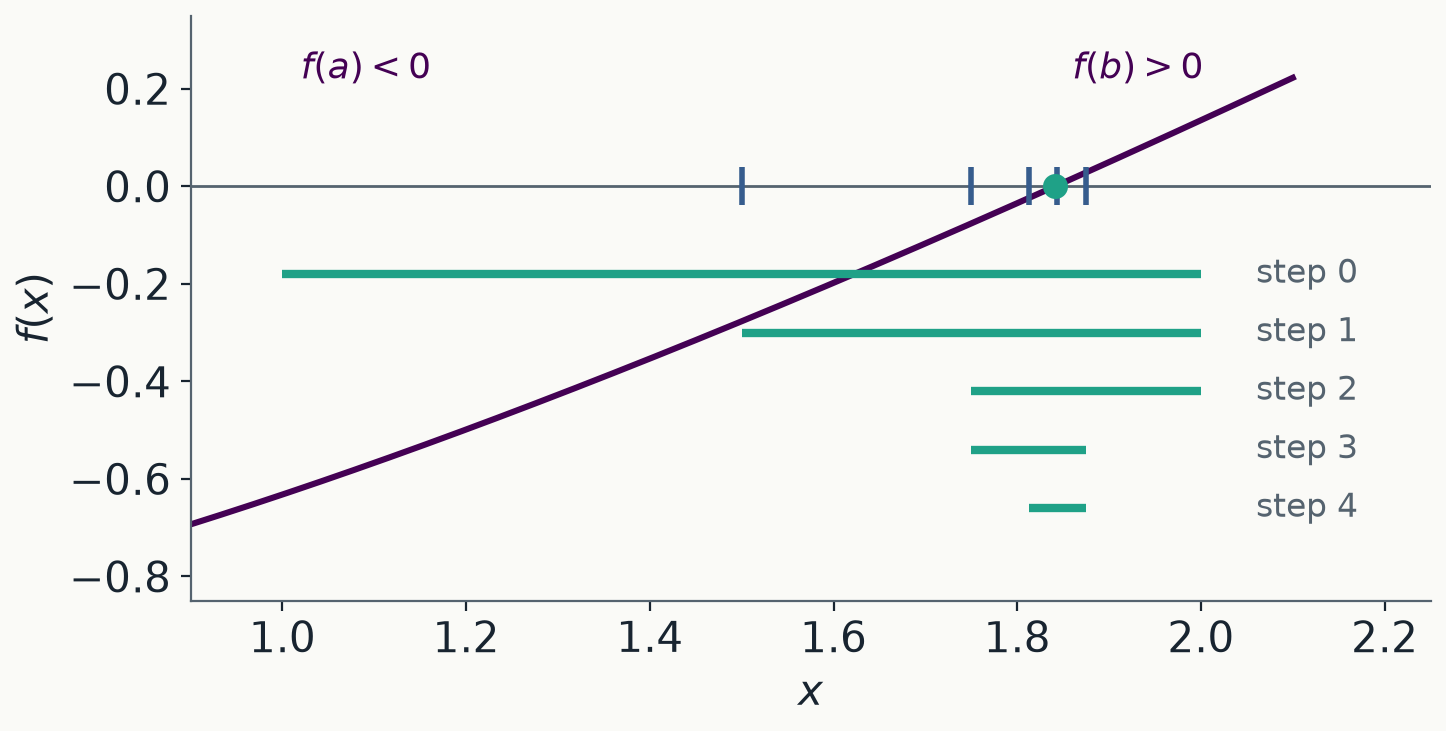
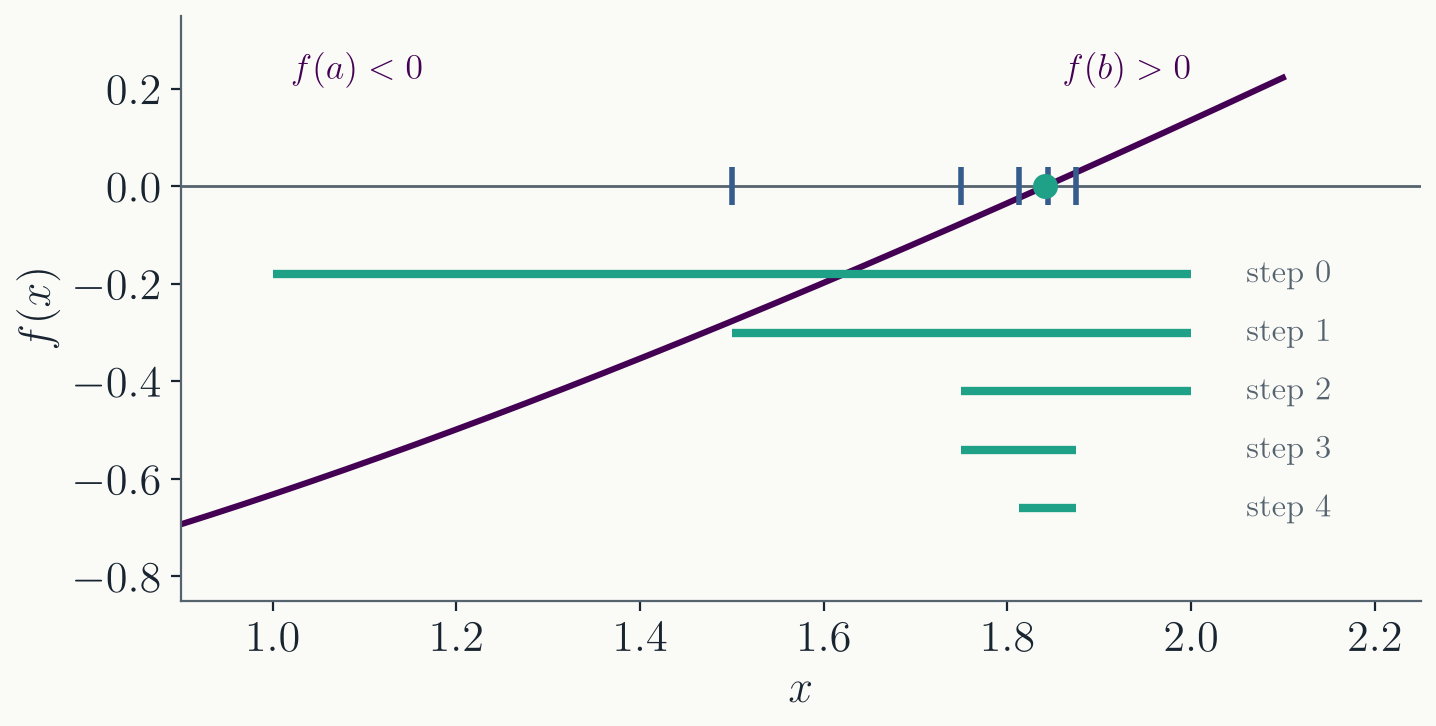
Lecture 3: review pass
Physics examples reworked (turning points, dispersion, BCS gap), a
precise bisection procedure slide, quadratic formulas centered with a
separator, digit-doubling made explicit for Newton, templates and
lambdas split onto separate slides, std::get instead of structured
bindings, figures regenerated with LaTeX fonts.

diff --git a/Lecture 3/index.html b/Lecture 3/index.html
@@ -34,7 +34,7 @@
             <li class="fragment"><strong>Iterative methods.</strong> Improving a
               guess step by step, and how fast the error shrinks.</li>
             <li class="fragment"><strong>Implementation.</strong> Tolerances,
-              failure, and passing a function to a function in C++.</li>
+              failure, and function as an argument in C++.</li>
           </ul>
           <!-- <p class="fragment why">Every method today is a loop that improves a
                guess. The whole subject is how much better each step gets, and
@@ -54,30 +54,39 @@
         </section>
 
         <section>
-          <h2>Where roots come from</h2>
-          <ul style="font-size: 0.9em;">
-            <li><strong>Orbits.</strong> Where is a planet at time $t$? The
-              position follows from the eccentric anomaly $E$, which solves
-              Kepler's equation $E - e\sin E = M(t)$. No closed form; solved
-              billions of times a day by orbit propagators.</li>
-            <li class="fragment"><strong>Quantum wells.</strong> The bound-state
-              energies of a finite square well solve
-              $\tan z = \sqrt{(z_0/z)^2 - 1}$.</li>
-            <li class="fragment"><strong>Lagrange points.</strong> Where gravity
-              and the centrifugal force balance is a fifth-degree polynomial
-              in the distance. That is Homework 2.</li>
+          <h2>Why $f(x) = 0$?</h2>
+          <ul style="font-size: 0.85em;">
+            <li><strong>Orbit periods.</strong> The turning points of an orbit
+              solve $E = V_{\rm eff}(r)$. Any perturbation to $1/r$ makes
+              this transcendental, and the period integral
+              $\oint dr/\sqrt{E - V_{\rm eff}(r)}$ cannot even be written
+              down until the roots are in hand.</li>
+            <li class="fragment"><strong>Wave dispersion.</strong> A wave with
+              wavenumber $k$ can only oscillate at frequencies with
+              $D(\omega, k) = 0$. Deriving the dispersion relation is
+              physics; solving it is nontrivial numerics.</li>
+            <li class="fragment"><strong>Phase transitions.</strong> The BCS
+              gap $\Delta(T)$ is defined implicitly by
+              $1 = \lambda \int \tanh\!\big(\sqrt{\xi^2 + \Delta^2}/2T\big)
+              /\sqrt{\xi^2 + \Delta^2}\,d\xi$: an equation to solve, not a
+              formula to evaluate.</li>
           </ul>
-          
+          <p class="fragment why">Often $f(x) = 0$ is not the problem itself
+            but a step inside it, solved thousands of times.</p>
         </section>
 
         <section>
           <h2>When a formula exists</h2>
-          <p style="font-size: 0.9em; margin-bottom: 0;">$ax^2 + bx + c = 0$:
-            $\;x_{1,2} = \dfrac{-b \pm \sqrt{b^2 - 4ac}}{2a}$</p>
+          <div style="display: flex; align-items: center; justify-content: center;
+            gap: 1.2em; font-size: 0.9em; margin: 20px 0 8px;">
+            <span>$ax^2 + bx + c = 0:$</span>
+            <span style="flex: 0 0 7%; height: 3px;"></span>
+            <span>$x_{1,2} = \dfrac{-b \pm \sqrt{b^2 - 4ac}}{2a}$</span>
+          </div>
           <ul style="font-size: 0.8em;">
             <li class="fragment">When $b^2 \gg 4ac$, one root computes as
               $-b + \sqrt{b^2 - 4ac}$: two nearly equal numbers subtracted,
-              i.e. catastrophic cancellation (lecture 1).</li>
+              i.e. catastrophic cancellation (Lecture 1).</li>
             <li class="fragment">$a = 1$, $b = 10^8$, $c = 1$: the small root
               is $-1.0\times10^{-8}$. The formula gives
               $-7.45\times10^{-9}$, 25% off.</li>
@@ -105,7 +114,7 @@
 
         <section class="divider">
           <h2>Part II &middot; Iterative methods</h2>
-          <p>Fixed point &middot; bisection &middot; Newton &middot; secant</p>
+          <p>Fixed point &middot; Bisection &middot; Newton &middot; Secant</p>
         </section>
 
         <section>
@@ -121,7 +130,7 @@
               $g(x) = 2 - e^{-x}$.</li>
           </ul>
           <p class="fragment why">$x_*$ is called a <em>fixed point</em> of
-            $g$: plugging it in gives it back.</p>
+            $g$: plugging it in gives back $x_*$.</p>
         </section>
 
         <section>
@@ -145,11 +154,13 @@
             </div>
             <div class="col">
               <ul style="font-size: 0.85em;">
+                <li class="fragment">Always need to start from a guess $x_0$. We
+                choose $x_0 = 1$ arbitrarily.</li>
                 <li class="fragment">Each step shrinks the error by about the
                   same factor, here $0.16$.</li>
                 <li class="fragment">About one more correct digit every 1.3
                   steps.</li>
-                <li class="fragment">Why $0.16$? Next slide.</li>
+                <li class="fragment">Why $0.16$?</li>
               </ul>
             </div>
           </div>
@@ -171,7 +182,7 @@
               table.</li>
           </ul>
           <p class="fragment why">Convergence is slow when $|g'(x_*)|$ is
-            close to 1, and absent when it exceeds 1.</p>
+            close to 1. The iteration will diverge when it exceeds 1.</p>
         </section>
 
         <section>
@@ -203,23 +214,39 @@
 
         <section>
           <h2>Bisection method</h2>
+          <p style="font-size: 0.9em;">Start from $[a_0, b_0]$ with
+            $f(a_0)\,f(b_0) < 0$. For $n = 0, 1, 2, \dots$:</p>
+          $$x_{n+1} = \tfrac12\,(a_n + b_n)$$
+          $$[a_{n+1},\, b_{n+1}] =
+            \begin{cases}
+              [a_n,\, x_{n+1}] & \text{if } f(a_n)\,f(x_{n+1}) < 0,\\[3pt]
+              [x_{n+1},\, b_n] & \text{otherwise,}
+            \end{cases}$$
+          <p class="fragment" style="font-size: 0.9em;">until $b_n - a_n$ (or
+            $|f(x_{n+1})|$) is small enough.</p>
+          <p class="fragment why">Each update preserves the sign change
+            $f(a_n)\,f(b_n) < 0$, so the interval contains a root at every
+            step.</p>
+        </section>
+
+        <section>
+          <h2>Bisection method</h2>
           <ul style="font-size: 0.9em;">
             <li>After $n$ steps the interval has width $(b - a)/2^n$. To
               reach width $\varepsilon$:
               $$n = \log_2\frac{b - a}{\varepsilon}$$</li>
             <li class="fragment">$[1, 2]$ down to $10^{-15}$: 50 steps.
-              Fixed-point iteration at rate $0.16$ needed 19. Newton will
-              need 5.</li>
+              Fixed-point iteration at rate $0.16$ needed 19.</li>
             <li class="fragment">The count does not depend on $f$. With a valid
               bracket, bisection cannot fail.</li>
           </ul>
-          <p class="fragment why">The midpoint error is not monotone (it can
-            jump when the root is near an endpoint), but the bracket always
-            shrinks.</p>
+          <!-- <p class="fragment why">The midpoint error is not monotone (it can
+               jump when the root is near an endpoint), but the bracket always
+               shrinks.</p> -->
         </section>
 
         <section>
-          <h2>Bisection method</h2>
+          <h2>Drawbacks of Bisection method</h2>
           <ul style="font-size: 0.9em;">
             <li><strong>No sign change.</strong> $f(x) = x^2$ touches zero
               without crossing. There is no bracket, so bisection never
@@ -251,23 +278,24 @@
           <p style="font-size: 0.9em;">Expand $f$ around $x_*$ to second order
             and use $f(x_*) = 0$:</p>
           $$x_{n+1} - x_* = \frac{f''(x_*)}{2f'(x_*)}\,(x_n - x_*)^2 + \cdots$$
-          <ul style="font-size: 0.85em;">
-            <li class="fragment">The error is <em>squared</em> each step:
-              quadratic convergence. The number of correct digits
-              doubles.</li>
+          <ul style="font-size: 0.8em;">
+            <li class="fragment">The error is <em>squared</em> each step
+              (quadratic convergence): $k$ correct digits means
+              $e_n \sim 10^{-k}$, and $e_n^2 \sim 10^{-2k}$ means $2k$
+              correct digits.</li>
             <li class="fragment">In fixed-point language:
               $g'(x) = f f''/(f')^2$, so $g'(x_*) = 0$. The linear term
               is gone.</li>
-            <li class="fragment">Our example from $x_0 = 1$: errors
-              $1.6\times10^{-1}$, $2.1\times10^{-3}$, $4.1\times10^{-7}$,
-              $1.6\times10^{-14}$. Four steps.</li>
+            <!-- <li class="fragment">Our example from $x_0 = 1$:
+                 $1.6\times10^{-1}$, $2.1\times10^{-3}$, $4.1\times10^{-7}$,
+                 $1.6\times10^{-14}$: digits $1 \to 3 \to 7 \to 14$.</li> -->
           </ul>
           <p class="fragment why">The price: it needs $f'$, and a starting
             point close enough to the root.</p>
         </section>
 
         <section>
-          <h2>Newton's method</h2>
+          <h2>Drawbacks of Newton's method</h2>
           <img src="figures/newton_runaway.png" style="width: 50%; margin: 0 auto; display: block;"
             alt="Newton's method on arctan x from x0 = 1.5: each step lands farther from the root">
           <ul style="font-size: 0.8em;">
@@ -379,74 +407,86 @@
             <li class="fragment">Return both the answer and whether the
               iteration converged:</li>
           </ul>
-          <pre style="font-size: 0.45em;"><code class="language-c++" data-trim data-noescape>
+          <pre style="font-size: 0.45em;" class="fragment"><code class="language-c++" data-trim data-noescape>
 std::tuple&lt;bool, double&gt; result = bisection(f, 1.0, 2.0, 1e-12);
-auto [ok, x] = result;            // structured binding: unpack the tuple
+bool ok  = std::get&lt;0&gt;(result);   // std::get&lt;n&gt;: the n-th tuple element
+double x = std::get&lt;1&gt;(result);
 if (!ok) { std::cout &lt;&lt; "did not converge\n"; }
           </code></pre>
-          <p class="fragment why">This is the convention Homework 2 asks for:
-            <code>{converged, x}</code>, with <code>false</code> for a bad
-            bracket, too many iterations, or NaN.</p>
+          <!-- <p class="fragment why">This is the convention Homework 2 asks for:
+               <code>{converged, x}</code>, with <code>false</code> for a bad
+               bracket, too many iterations, or NaN.</p> -->
         </section>
 
         <section>
           <h2>Passing a function to a function</h2>
-          <p style="font-size: 0.8em;">Root-finding functions take $f$ as an
-            argument. This requires writing a function template: the one
-            exception to lecture 2's rule.</p>
-          <pre style="font-size: 0.45em;"><code class="language-c++" data-trim data-noescape>
+          <p style="font-size: 0.85em;">Root-finding functions take $f$ as an
+            argument. This requires writing a function template:</p>
+          <pre style="font-size: 0.5em;"><code class="language-c++" data-trim data-noescape>
 template &lt;typename F&gt;                 // F: anything callable as f(x)
 double evaluate(const F&amp; f, double x) {
   return f(x);
 }
+
 double square(double x) { return x * x; }
-evaluate(square, 3.0);                             // 9.0
-evaluate([](double x) { return x * x; }, 3.0);     // 9.0, with a lambda
-const double e = 0.3, M = 1.0;                     // problem parameters
-auto kepler = [e, M](double E) { return E - e * std::sin(E) - M; };
-evaluate(kepler, 1.0);                             // [e, M]: it may use them
+evaluate(square, 3.0);                // 9.0
           </code></pre>
-          <p class="fragment why" style="font-size: 0.7em;">A <em>lambda</em>
-            is a function without a name, written where it is used. The
-            brackets list the outside variables it may use.</p>
+          <p class="fragment why">The compiler generates a version of
+            <code>evaluate</code> for every type <code>F</code> it is called
+            with.</p>
         </section>
 
         <section>
-          <h2>Bisection in C++</h2>
-          <pre style="font-size: 0.42em;"><code class="language-c++" data-trim data-noescape>
-template &lt;typename F&gt;   // f(a) and f(b) must have opposite signs
-std::tuple&lt;bool, double&gt; bisection(const F&amp; f, double a, double b, double tol) {
-  const int max_iter = 200;             // 2^-200 is far below epsilon
-  double fa = f(a);
-  if (fa * f(b) > 0.0) return {false, a};   // no sign change: no bracket
-  for (int i = 0; i &lt; max_iter; ++i) {
-    const double mid = 0.5 * (a + b);
-    const double fm = f(mid);
-    if (std::abs(fm) &lt; tol) return {true, mid};
-    if (fa * fm &lt; 0.0) { b = mid; } else { a = mid; fa = fm; }
-  }
-  return {false, 0.5 * (a + b)};
-}
+          <h2>Lambda functions</h2>
+          <p style="font-size: 0.85em;">A function can also be written with no
+            name:</p>
+          <pre style="font-size: 0.5em;"><code class="language-c++" data-trim data-noescape>
+const double e = 0.3, M = 1.0;
+auto kepler = [e, M](double E) { return E - e * std::sin(E) - M; };
+evaluate(kepler, 1.0);
+
+evaluate([](double x) { return x * x; }, 3.0);   // 9.0
           </code></pre>
-          <p class="fragment why" style="font-size: 0.7em;">Needs
-            <code>&lt;cmath&gt;</code> and <code>&lt;tuple&gt;</code>. Run on
-            $x - 2 + e^{-x}$, $[1, 2]$: $1.84141$. On $x^2$, $[1, 2]$:
-            <code>false</code>.</p>
+          <ul style="font-size: 0.8em;">
+            <li class="fragment">The brackets are the <em>capture list</em>:
+              the outside variables the lambda may use.</li>
+            <li class="fragment">This is how a root finder gets an $f$ with
+              parameters in it: capture them.</li>
+          </ul>
         </section>
 
+        <!-- <section>
+             <h2>Bisection in C++</h2>
+             <pre style="font-size: 0.42em;"><code class="language-c++" data-trim data-noescape>
+             template &lt;typename F&gt;   // f(a) and f(b) must have opposite signs
+             std::tuple&lt;bool, double&gt; bisection(const F&amp; f, double a, double b, double tol) {
+             const int max_iter = 200;             // 2^-200 is far below epsilon
+             double fa = f(a);
+             if (fa * f(b) > 0.0) return {false, a};   // no sign change: no bracket
+             for (int i = 0; i &lt; max_iter; ++i) {
+             const double mid = 0.5 * (a + b);
+             const double fm = f(mid);
+             if (std::abs(fm) &lt; tol) return {true, mid};
+             if (fa * fm &lt; 0.0) { b = mid; } else { a = mid; fa = fm; }
+             }
+             return {false, 0.5 * (a + b)};
+             }
+             </code></pre>
+             <p class="fragment why" style="font-size: 0.7em;">Needs
+             <code>&lt;cmath&gt;</code> and <code>&lt;tuple&gt;</code>. Run on
+             $x - 2 + e^{-x}$, $[1, 2]$: $1.84141$. On $x^2$, $[1, 2]$:
+             <code>false</code>.</p>
+             </section>
+        -->
         <section>
           <h2>Where this goes next</h2>
           <ul>
-            <li><strong>Homework 2:</strong> implement all four methods as
-              templates with the <code>{converged, x}</code> convention,
-              then use them on a real problem.</li>
-            <li class="fragment"><strong>Next lecture:</strong> numerical
-              integration.</li>
+            <li class="fragment"><strong>Next Lecture:</strong> interpolation</li>
             <li class="fragment">References:
               <ul style="font-size: 0.9em;">
-                <li>Numerical Recipes, 3rd ed., chapter 9 (root finding).</li>
+                <li>Numerical Recipes, 3rd ed., Chapter 9 (root finding).</li>
                 <li>Burden &amp; Faires, <em>Numerical Analysis</em>,
-                  chapter 2.</li>
+                  Chapter 2.</li>
                 <li>3Blue1Brown, <em>Newton's fractal</em> (what Newton does
                   far from a root).</li>
               </ul>

diff --git a/Lecture 3/make_figures.py b/Lecture 3/make_figures.py
@@ -13,8 +13,11 @@ V = ["#440154", "#365C8D", "#1FA187", "#A0DA39"]   # viridis picks, dark to ligh
 plt.rcParams.update({
     "figure.facecolor": PAPER, "axes.facecolor": PAPER, "savefig.facecolor": PAPER,
     "axes.edgecolor": MUTED, "axes.labelcolor": INK, "xtick.color": INK, "ytick.color": INK,
-    "text.color": INK, "font.size": 15, "axes.spines.top": False, "axes.spines.right": False,
-    "lines.linewidth": 2.2, "font.family": "sans-serif",
+    "text.color": INK, "font.size": 16, "axes.spines.top": False, "axes.spines.right": False,
+    "lines.linewidth": 2.2,
+    # Real LaTeX for all text, so figures match the MathJax on the slides.
+    "text.usetex": True, "font.family": "serif",
+    "text.latex.preamble": r"\usepackage{amsmath}",
 })
 
 def f(x):  return x - 2.0 + np.exp(-x)
